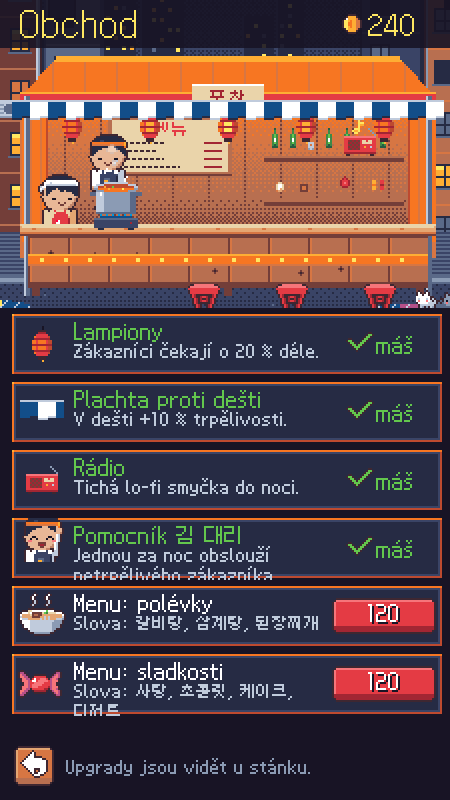
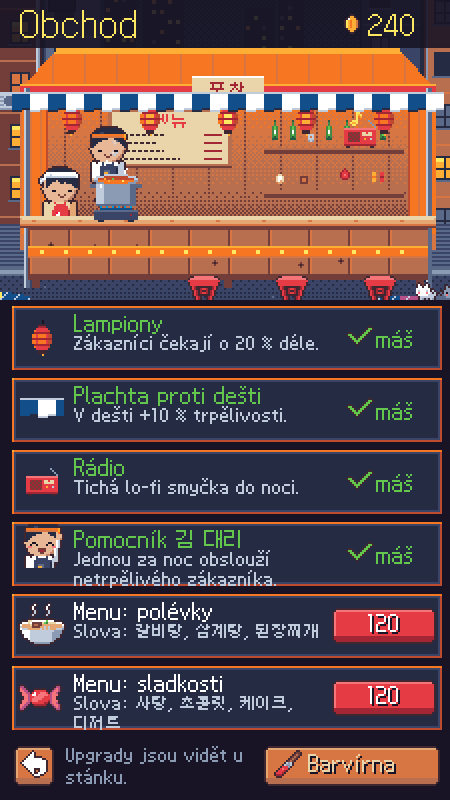
M11 (1/3): economy simulation (scripts/economy.ts), review menu packs for later districts, Barvírna prices, scrollable shop

diff --git a/src/scenes/Shop.ts b/src/scenes/Shop.ts
@@ -20,7 +20,7 @@ export class ShopScene extends Phaser.Scene {
     const rowH = 36;
     const listH = UPGRADES.length * rowH + 6;
     const footer = 34;
-    const gy = Math.max(150, H - footer - listH - 2);
+    const gy = Math.max(Math.min(150, H - footer - 3 * rowH - 4), H - footer - listH - 2);
     this.street = new Street(this, { backdrop: 'euljiro', weather: false });
     this.street.layout(gy);
     G.audio.setAmbient('rain');
@@ -33,10 +33,11 @@ export class ShopScene extends Phaser.Scene {
 
     const ly = gy + 2;
     this.add.rectangle(0, ly - 2, W, H - ly + 2, 0x181425).setOrigin(0, 0).setDepth(DEPTH.hud - 2);
+    const before = this.children.list.length;
     UPGRADES.forEach((u, i) => {
-      const y = ly + i * rowH;
+      const y = i * rowH;
       const owned = G.hasUpgrade(u.id);
-      const locked = !!u.story && (G.data.friends[u.story]?.chapter ?? 0) < 3;
+      const locked = (!!u.story && (G.data.friends[u.story]?.chapter ?? 0) < 3) || (!!u.after && !G.data.nights[u.after]);
       panel(this, 4, y, W - 8, rowH - 2).setDepth(DEPTH.hud - 1);
       // icon
       const ix = 20, iy = y + rowH / 2 - 1;
@@ -48,7 +49,7 @@ export class ShopScene extends Phaser.Scene {
       else icon = this.add.image(ix, iy, ...iconTex(word(u.words![0]).icon));
       (icon as any).setDepth(DEPTH.hud);
       txt(this, 36, y + 3, u.name, { size: 's', color: owned ? C.green : C.white }).setDepth(DEPTH.hud);
-      txt(this, 36, y + 14, locked ? 'Odemkne se v příběhu 김 대리.' : u.desc, { size: 'xs', color: C.light, wrap: W - 100, lineSpacing: 0 }).setCrop(0, 0, W, 21).setDepth(DEPTH.hud);
+      txt(this, 36, y + 14, locked ? (u.story ? 'Odemkne se v příběhu 김 대리.' : 'Odemkne se v další čtvrti.') : u.desc, { size: 'xs', color: C.light, wrap: W - 100, lineSpacing: 0 }).setCrop(0, 0, W, 21).setDepth(DEPTH.hud);
       if (owned) {
         this.add.image(W - 46, iy, 'uiicons', iconFrame('check')).setDepth(DEPTH.hud);
         txt(this, W - 38, iy, 'máš', { size: 's', color: C.green, origin: [0, 0.5] }).setDepth(DEPTH.hud);
@@ -65,6 +66,20 @@ export class ShopScene extends Phaser.Scene {
         this.tweens.add({ targets: fl, alpha: 0, duration: 700, onComplete: () => fl.destroy() });
       }
     });
+    // the rows scroll when they don't fit (drag / wheel)
+    const rows = this.children.list.slice(before);
+    const list = this.add.container(0, ly, rows).setDepth(DEPTH.hud - 1);
+    const viewH = H - footer - ly;
+    const maxScroll = Math.max(0, listH - viewH);
+    list.setMask(this.make.graphics({}, false).fillRect(0, ly, W, viewH).createGeometryMask());
+    let start = 0, startScroll = 0, scroll = 0, dragging = false;
+    const more = txt(this, W - 12, H - footer - 4, '▼', { size: 's', color: C.yellow, origin: [0.5, 1], shadow: true }).setDepth(DEPTH.hud + 2).setVisible(maxScroll > 0);
+    this.tweens.add({ targets: more, y: more.y + 2, yoyo: true, repeat: -1, duration: 400 });
+    const setScroll = (v: number) => { scroll = Phaser.Math.Clamp(v, 0, maxScroll); list.y = ly - Math.round(scroll); more.setVisible(scroll < maxScroll - 2); };
+    this.input.on('pointerdown', (p: Phaser.Input.Pointer) => { dragging = true; this.moved = 0; start = p.y; startScroll = scroll; });
+    this.input.on('pointermove', (p: Phaser.Input.Pointer) => { if (!dragging || !p.isDown || !maxScroll) return; this.moved = Math.max(this.moved, Math.abs(p.y - start)); setScroll(startScroll - (p.y - start)); });
+    this.input.on('pointerup', () => { dragging = false; });
+    this.input.on('wheel', (_p: unknown, _o: unknown, _dx: number, dy: number) => setScroll(scroll + dy * 0.5));
     iconButton(this, 16, H - footer / 2, 'back', () => goto(this, 'Map')).setDepth(DEPTH.hud);
     txt(this, 32, H - footer / 2, 'Upgrady jsou vidět u stánku.', { size: 'xs', color: C.grey, origin: [0, 0.5], wrap: W - 130 }).setDepth(DEPTH.hud);
     button(this, W - 50, H - footer / 2, 88, 20, 'Barvírna', () => goto(this, 'Paint', { from: 'Shop' }), { icon: 'paint', style: 'wood', size: 's' }).setDepth(DEPTH.hud);
@@ -81,10 +96,14 @@ export class ShopScene extends Phaser.Scene {
 
   onBack() { goto(this, 'Map'); }
 
+  private moved = 0;
+
   private buy(id: string) {
+    if (this.moved > 6) return;
     const u = UPGRADES.find((x) => x.id === id)!;
     if (G.data.coins < u.price || G.hasUpgrade(id)) return;
     if (u.story && (G.data.friends[u.story]?.chapter ?? 0) < 3) return;
+    if (u.after && !G.data.nights[u.after]) return;
     G.data.coins -= u.price;
     G.data.upgrades.push(id);
     G.save.save();

diff --git a/scripts/economy.ts b/scripts/economy.ts
@@ -1,0 +1,60 @@
+// Economy simulation (§6): a "normal" player (2–3★, some mistakes, average
+// speed) plays every night once in unlock order. Prints cumulative coins vs.
+// the cost of everything there is to buy.  Run: npx vite-node scripts/economy.ts
+import words from '../src/data/words.json';
+import { NIGHTS, UPGRADES, nightPool, DISTRICTS, homeDistrict } from '../src/data/levels';
+import { COLORS, HATS, PARTS } from '../src/data/colors';
+import { serveCoins, seatMultiplier, comboMultiplier, criticStars, nightStars } from '../src/logic/rules';
+import { BYE_COINS, HELLO_COINS, REACTION_CHANCE, REACTION_COINS, REACTIONS_FROM } from '../src/logic/polite';
+import { rng } from '../src/logic/srs';
+
+const diff = new Map(words.map((w) => [w.id, w.difficulty]));
+const rand = rng(42);
+
+interface Profile { name: string; served: number; mistakeRate: number; patienceLeft: number; hintRate: number; politeRate: number; seats: number }
+const PROFILES: Profile[] = [
+  { name: 'pomalejší (2★)', served: 0.82, mistakeRate: 0.18, patienceLeft: 0.3, hintRate: 0.15, politeRate: 0.35, seats: 2 },
+  { name: 'normální (2–3★)', served: 0.88, mistakeRate: 0.12, patienceLeft: 0.35, hintRate: 0.1, politeRate: 0.5, seats: 3 },
+  { name: 'zkušený (3★)', served: 0.97, mistakeRate: 0.04, patienceLeft: 0.6, hintRate: 0.02, politeRate: 0.85, seats: 4 },
+];
+
+function night(n: number, p: Profile): { coins: number; stars: number } {
+  const def = NIGHTS.find((d) => d.n === n)!;
+  const pool = nightPool(n, []).filter((id) => diff.has(id));
+  const seats = def.boss ? 3 : p.seats;
+  const customers = def.boss ? 10 : def.customers;
+  let coins = 0, combo = 0, served = 0, mistakes = 0;
+  const words = def.boss ? 3.5 : DISTRICTS[homeDistrict(def)].mechanic === 'colorItem' ? 2 : 1;
+  for (let i = 0; i < customers; i++) {
+    if (rand() > p.served) { combo = 0; continue; }
+    served++;
+    const mistake = rand() < p.mistakeRate * words;
+    if (mistake) { mistakes++; combo = 0; } else combo++;
+    const d = pool.length ? diff.get(pool[Math.floor(rand() * pool.length)])! * words : 5;
+    const pay = serveCoins(d, p.patienceLeft * (0.6 + rand() * 0.8), combo, rand() < p.hintRate);
+    coins += Math.round(pay.total * seatMultiplier(seats));
+    if (rand() < p.politeRate) coins += HELLO_COINS;
+    if (rand() < p.politeRate * 0.7) coins += BYE_COINS;
+    if (n >= REACTIONS_FROM && rand() < REACTION_CHANCE * p.politeRate) coins += REACTION_COINS;
+  }
+  void comboMultiplier;
+  const stars = def.boss ? criticStars(Math.round(mistakes / 2), 0) : nightStars({ total: customers, served, angry: customers - served, mistakes });
+  return { coins, stars };
+}
+
+const upgrades = UPGRADES.reduce((a, u) => a + u.price, 0);
+const everyColour = PARTS.reduce((a, p) => a + p.price, 0) * COLORS.length;
+const hats = HATS.reduce((a, h) => a + h.price, 0);
+const oneEach = PARTS.reduce((a, p) => a + p.price, 0) * 2; // a couple of favourite colours
+console.log(`Ceny: upgrady ${upgrades}, čepičky ${hats}, každá barva na všem ${everyColour}, „pár oblíbených barev“ ${oneEach}`);
+const order = NIGHTS.map((d) => d.n);
+for (const p of PROFILES) {
+  let total = 0, hit = 0;
+  const marks: string[] = [];
+  for (const n of order) {
+    total += night(n, p).coins;
+    if ([11, 116, 121, 126, 131, 204, 303].includes(n)) marks.push(`${n}: ${total}`);
+    if (!hit && total >= upgrades + hats + everyColour) { hit = n; }
+  }
+  console.log(`${p.name.padEnd(18)} ${marks.join(' · ')}  → na všechno (${upgrades + hats + everyColour}) po noci ${hit || '–'}`);
+}

diff --git a/src/data/levels.ts b/src/data/levels.ts
@@ -181,6 +181,10 @@ export interface UpgradeDef {
   district?: District;
   /** Only for sale after this regular's last (3rd) story chapter. */
   story?: RegularId;
+  /** Review pack: its words also come back in these later districts. */
+  districts?: District[];
+  /** Night that must be cleared before the pack is sold. */
+  after?: number;
 }
 
 export const UPGRADES: UpgradeDef[] = [
@@ -190,6 +194,9 @@ export const UPGRADES: UpgradeDef[] = [
   { id: 'helper', name: 'Pomocník 김 대리', desc: 'Jednou za noc obslouží netrpělivého zákazníka.', price: 200, story: 'kim' },
   { id: 'menu_soups', name: 'Menu: polévky', desc: 'Slova: 갈비탕, 삼계탕, 된장찌개', price: 120, words: ['galbitang', 'samgyetang', 'doenjangjjigae'], district: 'euljiro' },
   { id: 'menu_sweets', name: 'Menu: sladkosti', desc: 'Slova: 사탕, 초콜릿, 케이크, 디저트', price: 120, words: ['satang', 'chokollit', 'keikeu', 'dijeoteu'] },
+  { id: 'menu_street', name: 'Menu: pouliční klasika', desc: 'Jídla z 을지로 i v 홍대, 용산 a 부산.', price: 250, after: 116, words: ['tteokbokki', 'gimbap', 'ramyeon', 'mandu', 'kimchi', 'japchae'], districts: ['hongdae', 'yongsan', 'busan'] },
+  { id: 'menu_drinks', name: 'Menu: nápoje', desc: 'Nápoje u řeky i v 용산 a 부산.', price: 200, after: 121, words: ['keopi', 'juseu', 'eumnyosu', 'beobeulti', 'cha', 'mul'], districts: ['yongsan', 'busan'] },
+  { id: 'menu_jeju', name: 'Menu: babiččino Jeju', desc: 'Ovoce a polévky z Jeju v přístavu.', price: 220, after: 126, words: ['gyul', 'samgyetang', 'galbitang', 'gwail', 'podo', 'bingsu'], districts: ['busan'] },
 ];
 
 /** Words a night can order: tonight's + earlier words of the same district (+ review, packs). */
@@ -208,6 +215,7 @@ export function nightPool(n: number, upgrades: string[]): string[] {
   DISTRICTS[home].review?.forEach((w) => ids.add(w));
   for (const u of UPGRADES) {
     if (!u.words || !upgrades.includes(u.id)) continue;
+    if (u.districts) { if (u.districts.includes(home) && !def.boss) u.words.forEach((w) => ids.add(w)); continue; }
     const food = home === 'euljiro' || home === 'hangang';
     if (food && (!u.district || u.district === home || def.boss || (u.district === 'euljiro' && n >= 5))) u.words.forEach((w) => ids.add(w));
   }

diff --git a/src/data/colors.ts b/src/data/colors.ts
@@ -26,9 +26,9 @@ export type PartId = 'roof' | 'sign' | 'stools' | 'lanterns';
 
 export const PARTS: { id: PartId; name: string; price: number }[] = [
   { id: 'roof', name: 'Plachta', price: 80 },
-  { id: 'sign', name: 'Cedule', price: 50 },
-  { id: 'stools', name: 'Stoličky', price: 40 },
-  { id: 'lanterns', name: 'Lampiony', price: 60 },
+  { id: 'sign', name: 'Cedule', price: 60 },
+  { id: 'stools', name: 'Stoličky', price: 50 },
+  { id: 'lanterns', name: 'Lampiony', price: 70 },
 ];
 
 export const HATS: { id: string; name: string; price: number }[] = [
